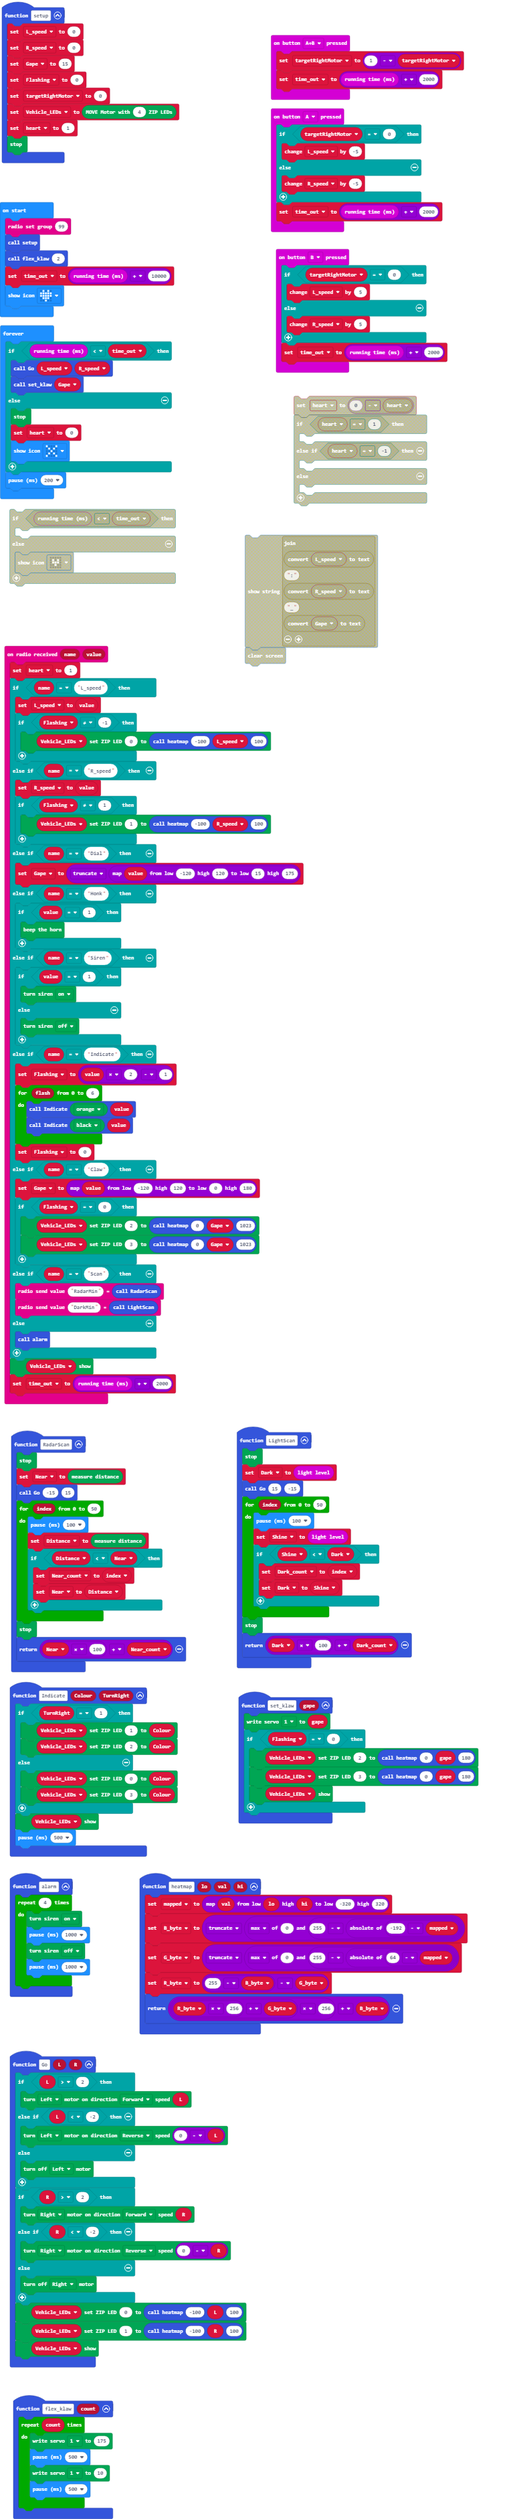
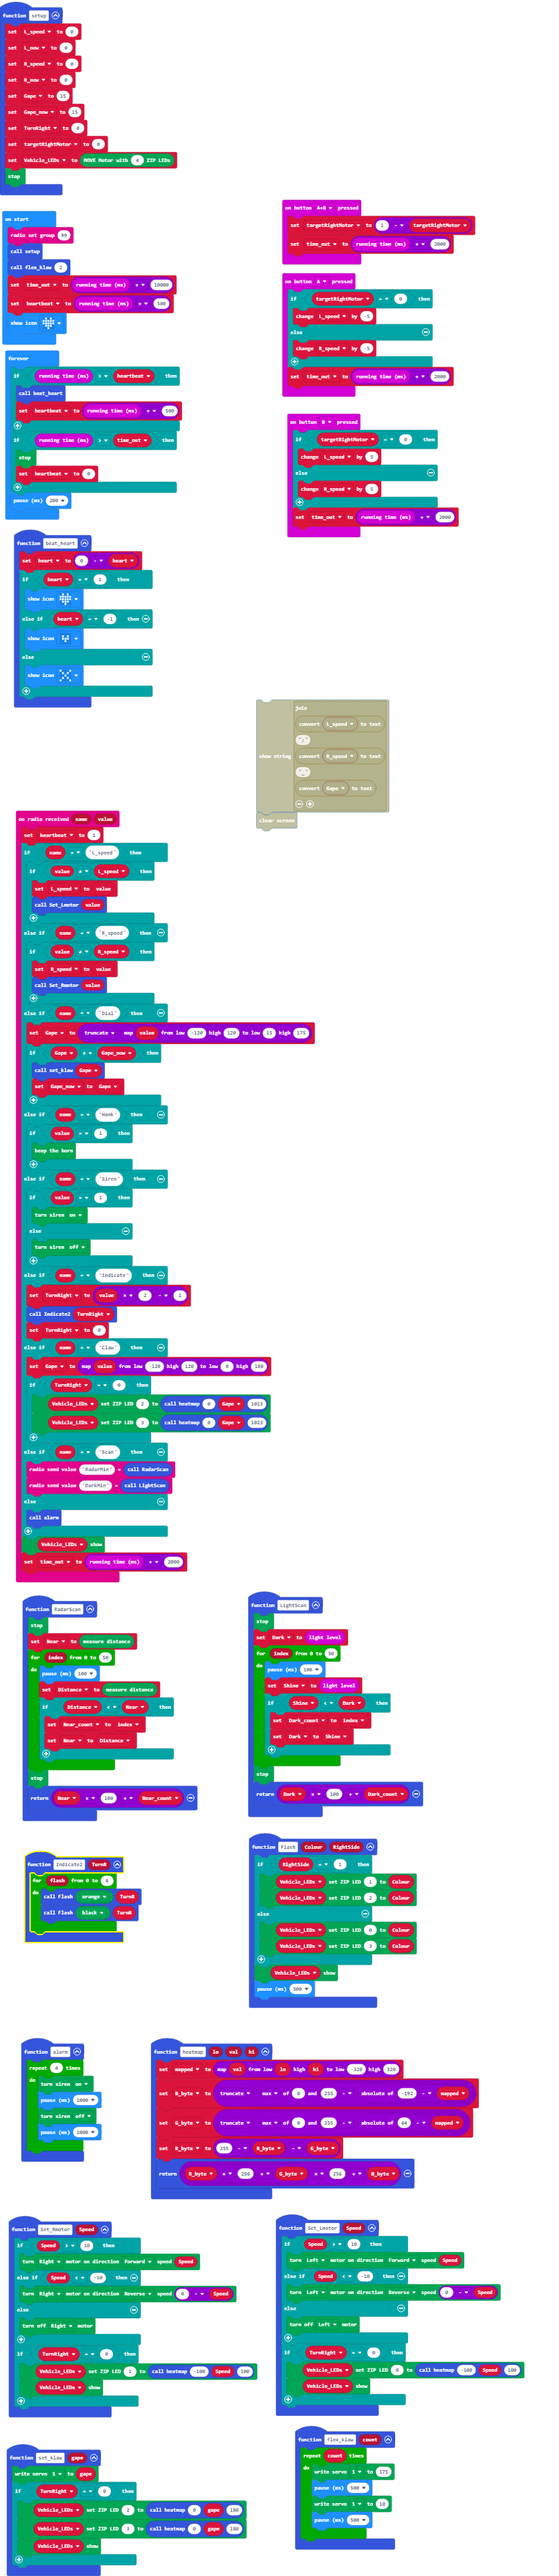
skip repeated speed & dial settings

diff --git a/main.ts b/main.ts
@@ -1,19 +1,34 @@
-function Indicate (Colour: number, TurnRight: number) {
-    if (TurnRight == 1) {
-        Vehicle_LEDs.setZipLedColor(1, Colour)
-        Vehicle_LEDs.setZipLedColor(2, Colour)
-    } else {
-        Vehicle_LEDs.setZipLedColor(0, Colour)
-        Vehicle_LEDs.setZipLedColor(3, Colour)
-    }
-    Vehicle_LEDs.show()
-    basic.pause(500)
-}
 function set_klaw (gape: number) {
     Kitronik_Move_Motor.writeServoPin(Kitronik_Move_Motor.ServoSelection.servo1, gape)
-    if (Flashing == 0) {
+    if (TurnRight == 0) {
         Vehicle_LEDs.setZipLedColor(2, heatmap(0, gape, 180))
         Vehicle_LEDs.setZipLedColor(3, heatmap(0, gape, 180))
+        Vehicle_LEDs.show()
+    }
+}
+function Set_Rmotor (Speed: number) {
+    if (Speed > 10) {
+        Kitronik_Move_Motor.motorOn(Kitronik_Move_Motor.Motors.MotorRight, Kitronik_Move_Motor.MotorDirection.Forward, Speed)
+    } else if (Speed < -10) {
+        Kitronik_Move_Motor.motorOn(Kitronik_Move_Motor.Motors.MotorRight, Kitronik_Move_Motor.MotorDirection.Reverse, 0 - Speed)
+    } else {
+        Kitronik_Move_Motor.motorOff(Kitronik_Move_Motor.Motors.MotorRight)
+    }
+    if (TurnRight == 0) {
+        Vehicle_LEDs.setZipLedColor(1, heatmap(-100, Speed, 100))
+        Vehicle_LEDs.show()
+    }
+}
+function Set_Lmotor (Speed: number) {
+    if (Speed > 10) {
+        Kitronik_Move_Motor.motorOn(Kitronik_Move_Motor.Motors.MotorLeft, Kitronik_Move_Motor.MotorDirection.Forward, Speed)
+    } else if (Speed < -10) {
+        Kitronik_Move_Motor.motorOn(Kitronik_Move_Motor.Motors.MotorLeft, Kitronik_Move_Motor.MotorDirection.Reverse, 0 - Speed)
+    } else {
+        Kitronik_Move_Motor.motorOff(Kitronik_Move_Motor.Motors.MotorLeft)
+    }
+    if (TurnRight == 0) {
+        Vehicle_LEDs.setZipLedColor(0, heatmap(-100, Speed, 100))
         Vehicle_LEDs.show()
     }
 }
@@ -25,6 +40,12 @@ input.onButtonPressed(Button.A, function () {
     }
     time_out = input.runningTime() + 2000
 })
+function Indicate2 (TurnR: number) {
+    for (let flash = 0; flash <= 6; flash++) {
+        Flash(Kitronik_Move_Motor.colors(Kitronik_Move_Motor.ZipLedColors.Orange), TurnR)
+        Flash(Kitronik_Move_Motor.colors(Kitronik_Move_Motor.ZipLedColors.Black), TurnR)
+    }
+}
 function alarm () {
     for (let index = 0; index < 4; index++) {
         Kitronik_Move_Motor.soundSiren(Kitronik_Move_Motor.OnOffSelection.On)
@@ -36,7 +57,6 @@ function alarm () {
 function LightScan () {
     Kitronik_Move_Motor.stop()
     Dark = input.lightLevel()
-    Go(15, -15)
     for (let index = 0; index <= 50; index++) {
         basic.pause(100)
         Shine = input.lightLevel()
@@ -67,49 +87,36 @@ input.onButtonPressed(Button.B, function () {
     }
     time_out = input.runningTime() + 2000
 })
-function Go (L: number, R: number) {
-    if (L > 2) {
-        Kitronik_Move_Motor.motorOn(Kitronik_Move_Motor.Motors.MotorLeft, Kitronik_Move_Motor.MotorDirection.Forward, L)
-    } else if (L < -2) {
-        Kitronik_Move_Motor.motorOn(Kitronik_Move_Motor.Motors.MotorLeft, Kitronik_Move_Motor.MotorDirection.Reverse, 0 - L)
-    } else {
-        Kitronik_Move_Motor.motorOff(Kitronik_Move_Motor.Motors.MotorLeft)
-    }
-    if (R > 2) {
-        Kitronik_Move_Motor.motorOn(Kitronik_Move_Motor.Motors.MotorRight, Kitronik_Move_Motor.MotorDirection.Forward, R)
-    } else if (R < -2) {
-        Kitronik_Move_Motor.motorOn(Kitronik_Move_Motor.Motors.MotorRight, Kitronik_Move_Motor.MotorDirection.Reverse, 0 - R)
-    } else {
-        Kitronik_Move_Motor.motorOff(Kitronik_Move_Motor.Motors.MotorRight)
-    }
-    Vehicle_LEDs.setZipLedColor(0, heatmap(-100, L, 100))
-    Vehicle_LEDs.setZipLedColor(1, heatmap(-100, R, 100))
-    Vehicle_LEDs.show()
-}
 function setup () {
     L_speed = 0
+    L_now = 0
     R_speed = 0
+    R_now = 0
     Gape = 15
-    Flashing = 0
+    Gape_now = 15
+    TurnRight = 0
     targetRightMotor = 0
     Vehicle_LEDs = Kitronik_Move_Motor.createMoveMotorZIPLED(4)
-    heart = 1
     Kitronik_Move_Motor.stop()
 }
 radio.onReceivedValue(function (name, value) {
-    heart = 1
+    heartbeat = 1
     if (name == "L_speed") {
-        L_speed = value
-        if (Flashing != -1) {
-            Vehicle_LEDs.setZipLedColor(0, heatmap(-100, L_speed, 100))
+        if (value != L_speed) {
+            L_speed = value
+            Set_Lmotor(value)
         }
     } else if (name == "R_speed") {
-        R_speed = value
-        if (Flashing != 1) {
-            Vehicle_LEDs.setZipLedColor(1, heatmap(-100, R_speed, 100))
+        if (value != R_speed) {
+            R_speed = value
+            Set_Rmotor(value)
         }
     } else if (name == "Dial") {
         Gape = Math.trunc(Math.map(value, -120, 120, 15, 175))
+        if (Gape != Gape_now) {
+            set_klaw(Gape)
+            Gape_now = Gape
+        }
     } else if (name == "Honk") {
         if (value == 1) {
             Kitronik_Move_Motor.beepHorn()
@@ -121,15 +128,12 @@ radio.onReceivedValue(function (name, value) {
             Kitronik_Move_Motor.soundSiren(Kitronik_Move_Motor.OnOffSelection.Off)
         }
     } else if (name == "Indicate") {
-        Flashing = value * 2 - 1
-        for (let flash = 0; flash <= 6; flash++) {
-            Indicate(Kitronik_Move_Motor.colors(Kitronik_Move_Motor.ZipLedColors.Orange), value)
-            Indicate(Kitronik_Move_Motor.colors(Kitronik_Move_Motor.ZipLedColors.Black), value)
-        }
-        Flashing = 0
+        TurnRight = value * 2 - 1
+        Indicate2(TurnRight)
+        TurnRight = 0
     } else if (name == "Claw") {
         Gape = Math.map(value, -120, 120, 0, 180)
-        if (Flashing == 0) {
+        if (TurnRight == 0) {
             Vehicle_LEDs.setZipLedColor(2, heatmap(0, Gape, 1023))
             Vehicle_LEDs.setZipLedColor(3, heatmap(0, Gape, 1023))
         }
@@ -145,7 +149,6 @@ radio.onReceivedValue(function (name, value) {
 function RadarScan () {
     Kitronik_Move_Motor.stop()
     Near = Kitronik_Move_Motor.measure()
-    Go(-15, 15)
     for (let index = 0; index <= 50; index++) {
         basic.pause(100)
         Distance = Kitronik_Move_Motor.measure()
@@ -165,11 +168,35 @@ function flex_klaw (count: number) {
         basic.pause(500)
     }
 }
+function Flash (Colour: number, RightSide: number) {
+    if (RightSide == 1) {
+        Vehicle_LEDs.setZipLedColor(1, Colour)
+        Vehicle_LEDs.setZipLedColor(2, Colour)
+    } else {
+        Vehicle_LEDs.setZipLedColor(0, Colour)
+        Vehicle_LEDs.setZipLedColor(3, Colour)
+    }
+    Vehicle_LEDs.show()
+    basic.pause(500)
+}
+function beat_heart () {
+    heart = 0 - heart
+    if (heart == 1) {
+        basic.showIcon(IconNames.Heart)
+    } else if (heart == -1) {
+        basic.showIcon(IconNames.SmallHeart)
+    } else {
+        basic.showIcon(IconNames.No)
+    }
+}
+let heart = 0
 let Near_count = 0
 let Distance = 0
 let Near = 0
-let heart = 0
+let Gape_now = 0
 let Gape = 0
+let R_now = 0
+let L_now = 0
 let R_byte = 0
 let G_byte = 0
 let B_byte = 0
@@ -180,22 +207,24 @@ let Dark = 0
 let R_speed = 0
 let L_speed = 0
 let targetRightMotor = 0
-let Flashing = 0
 let Vehicle_LEDs: Kitronik_Move_Motor.MoveMotorZIP = null
+let TurnRight = 0
+let heartbeat = 0
 let time_out = 0
 radio.setGroup(99)
 setup()
 flex_klaw(2)
 time_out = input.runningTime() + 10000
+heartbeat = input.runningTime() + 500
 basic.showIcon(IconNames.Heart)
 basic.forever(function () {
-    if (input.runningTime() < time_out) {
-        Go(L_speed, R_speed)
-        set_klaw(Gape)
-    } else {
+    if (input.runningTime() > heartbeat) {
+        beat_heart()
+        heartbeat = input.runningTime() + 500
+    }
+    if (input.runningTime() > time_out) {
         Kitronik_Move_Motor.stop()
-        heart = 0
-        basic.showIcon(IconNames.No)
+        heartbeat = 0
     }
     basic.pause(200)
 })
